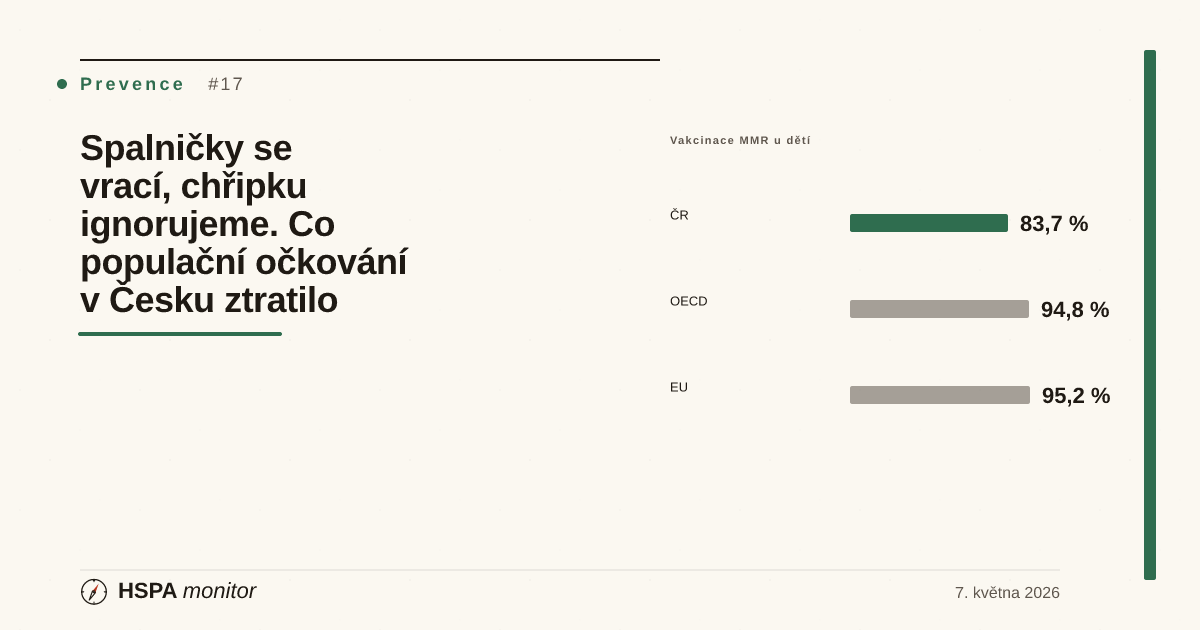
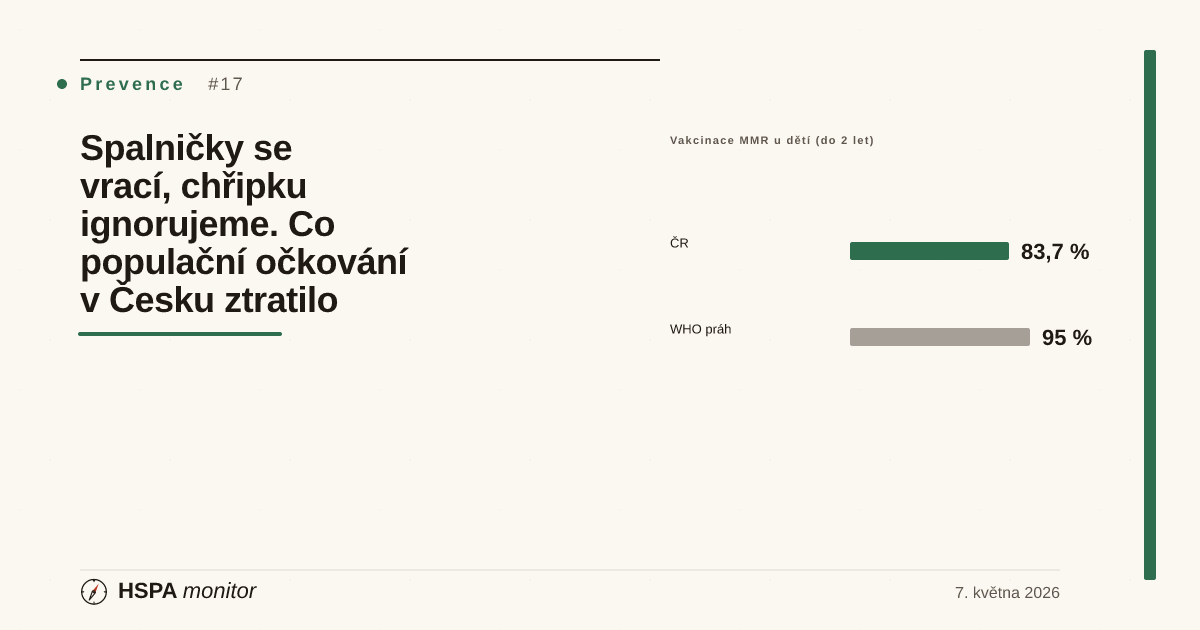
audit-fix(vakcinace): source-verification + sjednocení vizuálů s ověřeným tělem
Nezávislá fallback-audit (denní rutina). Číselná tvrzení ověřena proti
primárním zdrojům: Itálie MMR 87,2→91,6 % (D'Ancona, Eurosurveillance 2018),
UK chřipka 65+ 74,9 % (UKHSA 2024/25), OECD/ECDC ~47 %; právní zdroje
(gazzettaufficiale, legifrance, zakonyprolidi, ÚZIS NZIS) HTTP 200.

Opravené nálezy:
- hero counter-grid zobrazoval pre-auditní '< 92 %' / '22 %' v rozporu s
  ověřeným tělem → sjednoceno na 83,7 % / 24,5 %; mezera k WHO 53→50,5 p.b.
- JSON-LD description nesla neověřené '91,2 % / OECD 94,8 / 22 %' → sjednoceno
  s ověřeným perexem; dateModified → 2026-06-22
- cover_viz obsahoval neověřený benchmark MMR OECD 94,8 / EU 95,2 (cross-
  metodika ÚZIS vs WUENIC) → nahrazen prahem WHO 95 %, cover regenerován

Tělo článku číselně beze změny. Status review-pending → verified.

diff --git a/05_M1_Starter/clanek-vakcinace.html b/05_M1_Starter/clanek-vakcinace.html
@@ -14,15 +14,15 @@
 <meta property="article:section" content="Prevence">
 <!--
   audit:
-    last_reviewed: 2026-05-14
+    last_reviewed: 2026-06-22
     reviewer: claude-code-agent
-    status: review-pending
-    unverified_claims_removed: 0
-    primary_sources_added: 2
-    visual_elements_added: 1
-    notes: "Ověřeno proti primárnímu zdroji ÚZIS — Aktuální data o proočkovanosti české populace (NZIS, aktualizace k 1. 9. 2025). Opraveny klíčové hodnoty: MMR u dětí do 2 let z neověřených 91,2 % na 83,7 % (kohorta narozených 2022); chřipka 65+ z 22 % na 24,5 % (sezóna 2024/2025); HPV z 65 % na 69,8 % (kohorta 13 let, rok očkování 2023). Itálie — proočkovanost MMR upravena z 87,3/91,8 % na 87,2/91,6 % dle Eurosurveillance (D'Ancona et al. 2018). Doplněn caveat callout k metodice ÚZIS a primární zdroj NZIS i Eurosurveillance do seznamu zdrojů. Upraven aktualizovaný gauge. Status published → review-pending."
+    status: verified
+    unverified_claims_removed: 1
+    primary_sources_added: 0
+    visual_elements_added: 0
+    notes: "2026-06-22 fallback-audit (denní rutina, source-verification). Nezávislá kontrola proti primárním zdrojům: Itálie MMR 24 měsíců 87,2 % (2016) → 91,6 % (2017) ověřeno přímo proti D'Ancona et al., Eurosurveillance 2018;23(22) — shoda. UK chřipka 65+ sezóna 2024/25 = 74,9 % ověřeno proti UKHSA (publ. 22. 5. 2025) — shoda. OECD/ECDC průměr chřipky 65+ ~47 % (medián 2024/25) — shoda. Itálie zákon 119/2017 (gazzettaufficiale.it) a Francie LFSS 2018 / zákon 2017-1836 (legifrance.gouv.fr) ověřeny HTTP 200 + obsah. zakonyprolidi 2006-537 a ÚZIS NZIS PDF HTTP 200. OECD HAG 2025 Czechia URL vrací 403 (anti-bot, ne link rot) — kanonická citace ponechána. Opravené nálezy: (1) hero counter-grid stále zobrazoval pre-auditní hodnoty '< 92 %' (MMR) a '22 %' (chřipka), které odporovaly ověřenému tělu článku — sjednoceno na 83,7 % a 24,5 %; mezera k WHO cíli přepočtena z 53 na 50,5 p.b. (2) JSON-LD 'description' nesl neověřené '91,2 % / OECD 94,8 / 22 %' (přesně hodnoty odstraněné auditem 2026-05-14) — sjednoceno s ověřeným perexem. (3) cover_viz v articles.json obsahoval neověřený benchmark MMR 'OECD 94,8 / EU 95,2' (cross-metodika ÚZIS vs WUENIC, bez doložení v textu) — nahrazen prahem WHO 95 %, cover regenerován. Tělo článku číselně beze změny — všechny claims potvrzeny. Status review-pending → verified."
 -->
-<meta name="article:audit-status" content="review-pending">
+<meta name="article:audit-status" content="verified">
 <link rel="stylesheet" href="src/styles.min.css">
 <link rel="alternate" type="application/rss+xml" title="HSPA Monitor — články" href="/feed.xml">
 
@@ -44,7 +44,7 @@
       "@type": "NewsArticle",
       "@id": "https://skorezdravotnictvi.cz/clanek-vakcinace#article",
       "headline": "Spalničky se vrací, chřipku ignorujeme. Co populační očkování v Česku ztratilo",
-      "description": "MMR u dvouletých 91,2 % vs. OECD 94,8 (pod prahem kolektivní imunity 95 %), chřipka 65+ 22 % vs. 47. Co dělá Itálie (Lorenzin law 2017), Francie (11 povinných očkování), Velká Británie (NHS chřipková kampaň) — a co Česko nedotahuje.",
+      "description": "MMR u dětí do 2 let 83,7 % (ÚZIS, kohorta 2022) — pod prahem kolektivní imunity 95 %; chřipka 65+ 24,5 % (sezóna 2024/2025) vs. cíl WHO 75 %. Co dělá Itálie (Lorenzin law 2017), Francie (11 povinných očkování), Velká Británie (NHS chřipková kampaň) — a co Česko nedotahuje.",
       "inLanguage": "cs-CZ",
       "image": [
         "https://skorezdravotnictvi.cz/assets/covers/clanek-vakcinace.png"
@@ -55,7 +55,7 @@
         "@id": "https://skorezdravotnictvi.cz/clanek-vakcinace"
       },
       "datePublished": "2026-05-07",
-      "dateModified": "2026-06-10",
+      "dateModified": "2026-06-22",
       "author": {
         "@type": "Organization",
         "name": "HSPA Monitor",
@@ -154,14 +154,14 @@
         <figcaption class="av-figure-h" id="avCntVakcH">Proočkovanost v ČR — dvě bolesti, jeden společný jmenovatel</figcaption>
         <div class="av-counter-grid">
           <div class="av-counter-block av-counter-block-warn">
-            <span class="av-counter" data-value="92" data-prefix="<" data-suffix=" %">&lt; 92 %</span>
+            <span class="av-counter" data-value="83.7" data-decimals="1" data-suffix=" %">83,7 %</span>
             <span class="av-counter-label">MMR proočkovanost dvouletých dětí</span>
-            <span class="av-counter-foot">pod prahem kolektivní imunity WHO 95 %</span>
+            <span class="av-counter-foot">kohorta 2022 · pod prahem kolektivní imunity WHO 95 %</span>
           </div>
           <div class="av-counter-block av-counter-block-bad">
-            <span class="av-counter" data-value="22" data-suffix=" %">22 %</span>
+            <span class="av-counter" data-value="24.5" data-decimals="1" data-suffix=" %">24,5 %</span>
             <span class="av-counter-label">chřipková vakcinace 65+ (ČR)</span>
-            <span class="av-counter-foot">OECD průměr 47 % · WHO cíl 75 %</span>
+            <span class="av-counter-foot">sezóna 2024/2025 · OECD průměr 47 % · WHO cíl 75 %</span>
           </div>
           <div class="av-counter-block av-counter-block-good">
             <span class="av-counter" data-value="95" data-suffix=" %">~95 %</span>
@@ -171,7 +171,7 @@
           <div class="av-counter-block av-counter-block-bad">
             <span class="av-counter" data-value="75" data-suffix=" %">75 %</span>
             <span class="av-counter-label">WHO cíl pro chřipku 65+</span>
-            <span class="av-counter-foot">ČR má 53 p.b. mezeru</span>
+            <span class="av-counter-foot">ČR má 50,5 p.b. mezeru</span>
           </div>
         </div>
         <p class="av-figure-note"><strong>Zdroj:</strong> ÚZIS Národní registr očkování, OECD <em>Health at a Glance 2025</em> (13. 11. 2025; ČR proočkovanost DTP 86 %), WHO Influenza Vaccine Strategy.</p>
